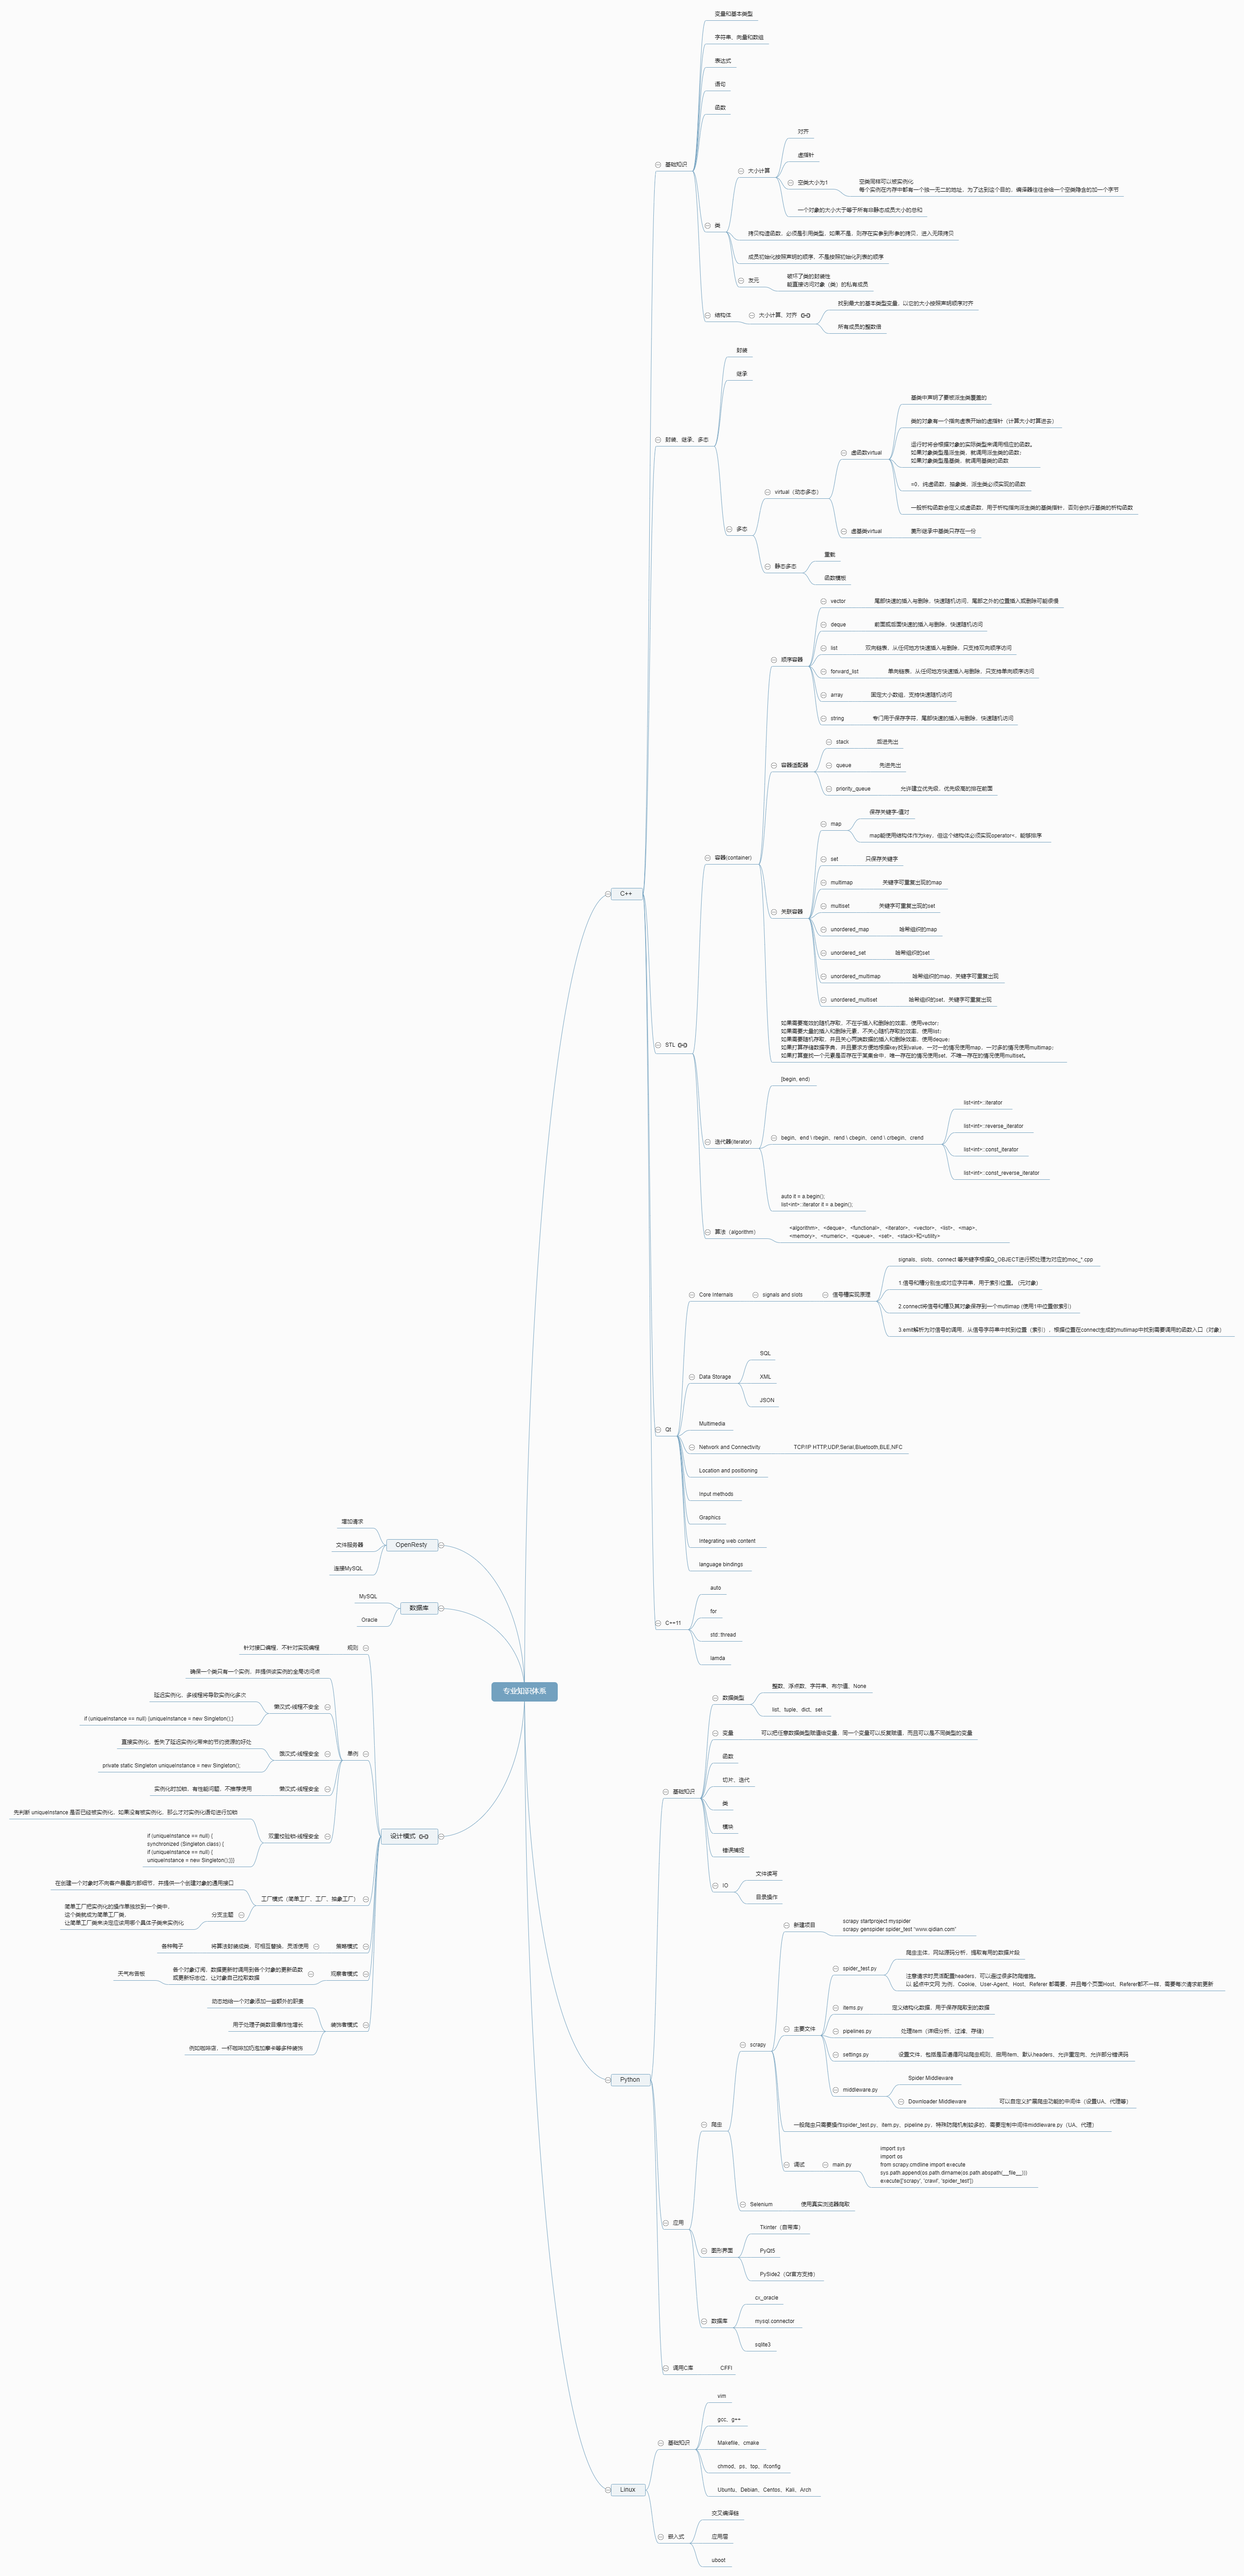
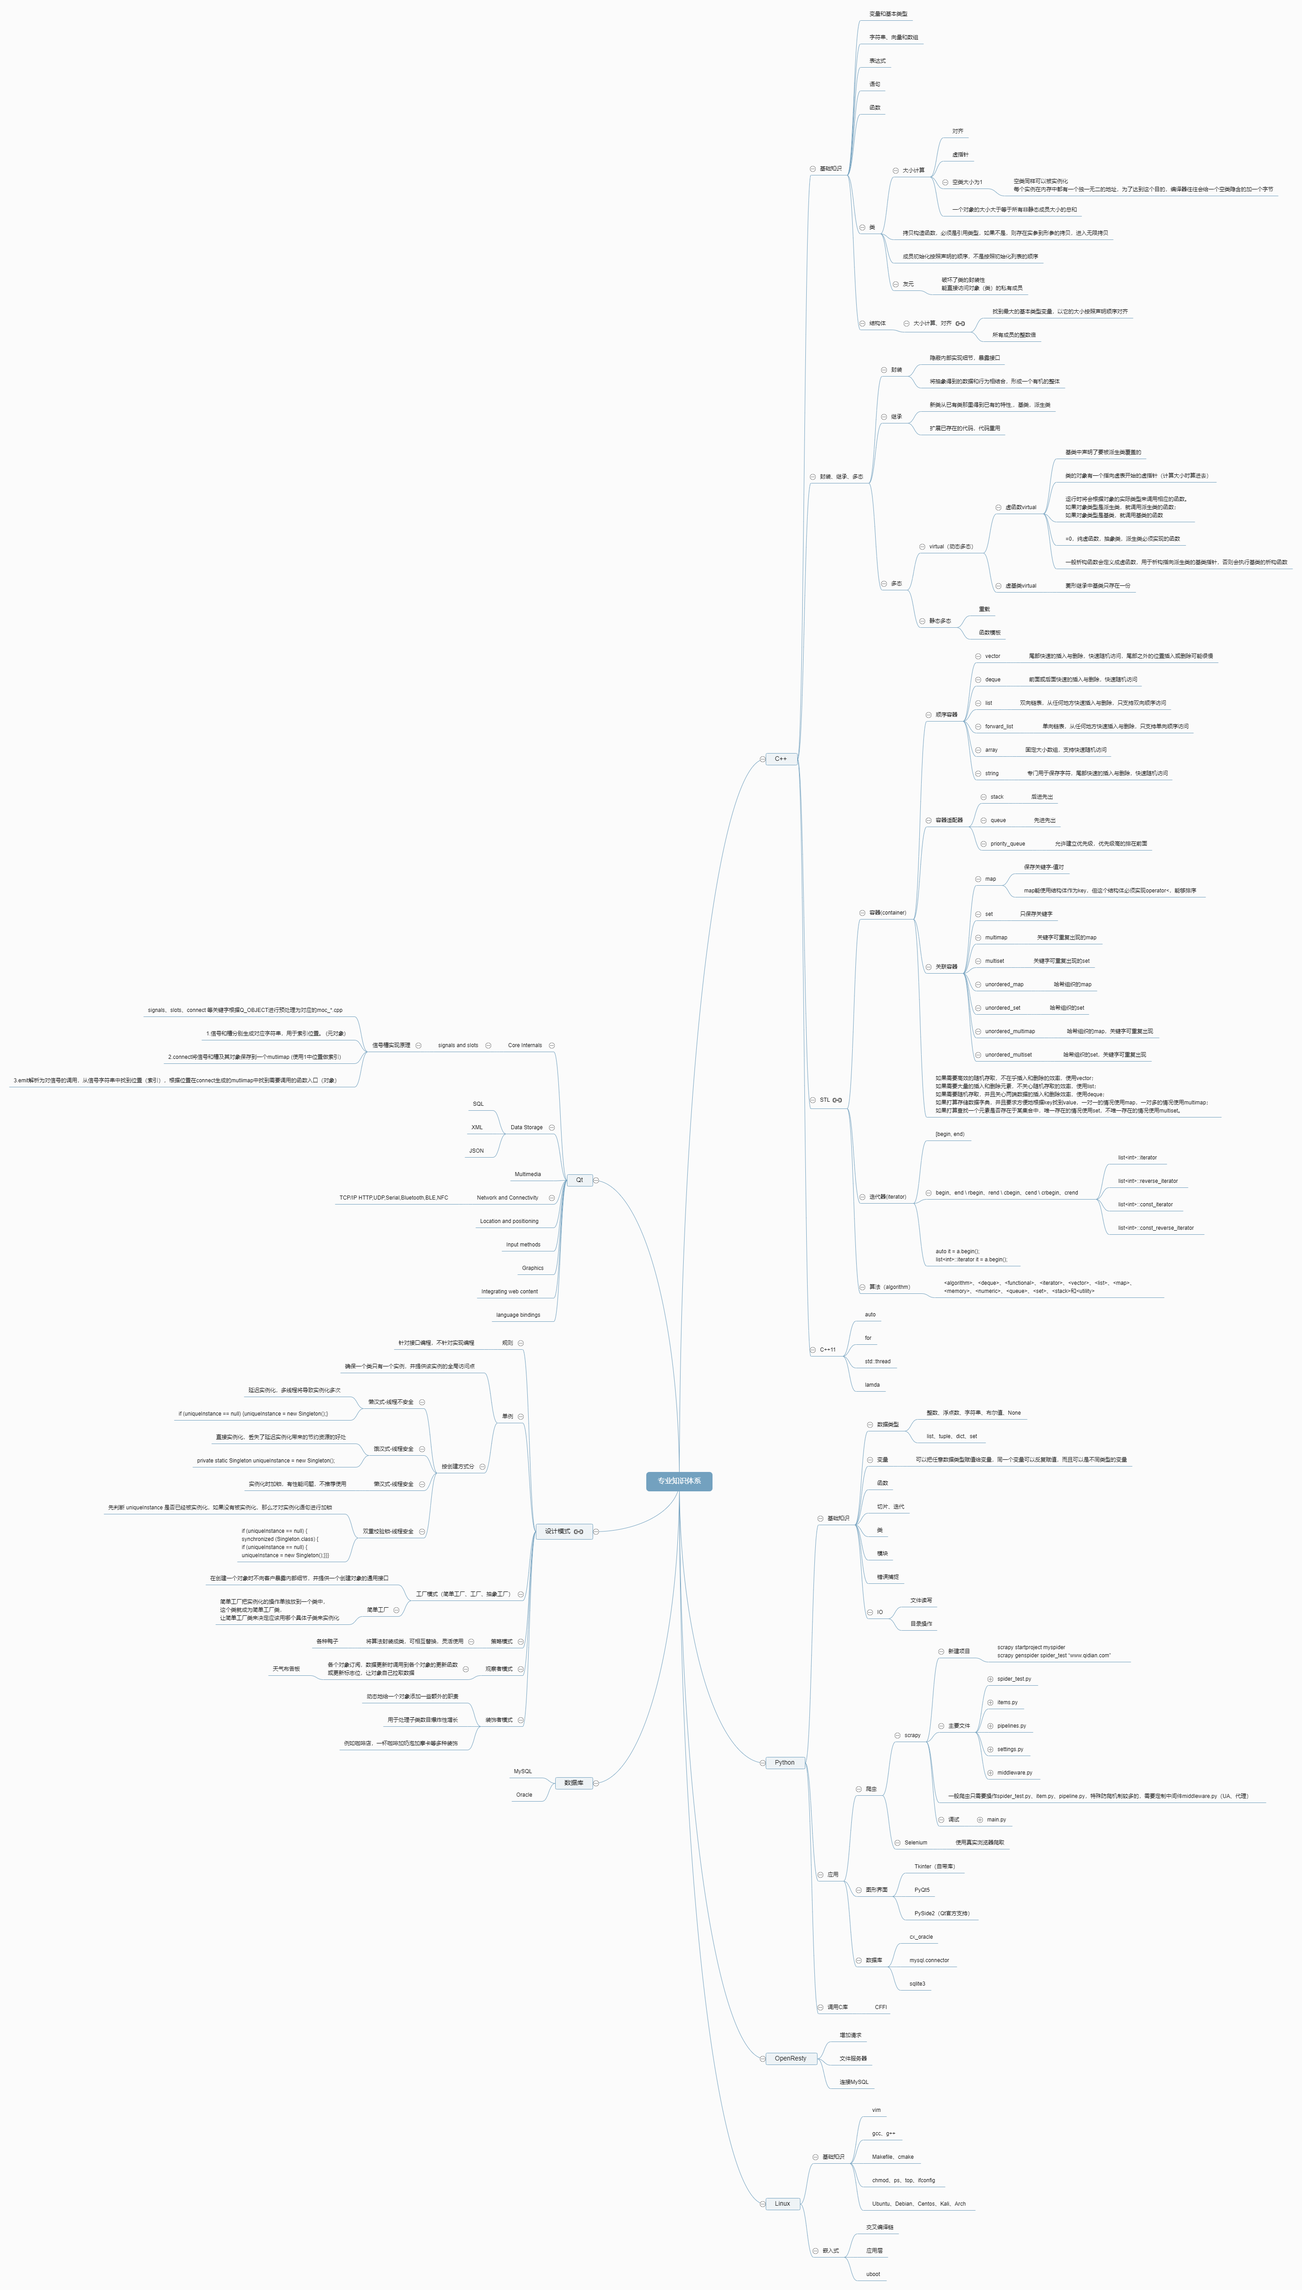
add png,mod info

diff --git a/README.md b/README.md
@@ -1,6 +1,10 @@
 # SkillSystem
 个人技能体系
 
+![图](https://raw.githubusercontent.com/itisyang/SkillSystem/master/专业知识体系_一级节点.png)
+
+![图](https://raw.githubusercontent.com/itisyang/SkillSystem/master/专业知识体系_二级节点.png)
+
 ![图](https://raw.githubusercontent.com/itisyang/SkillSystem/master/专业知识体系.png)
 
 <!-- <div align="center">
